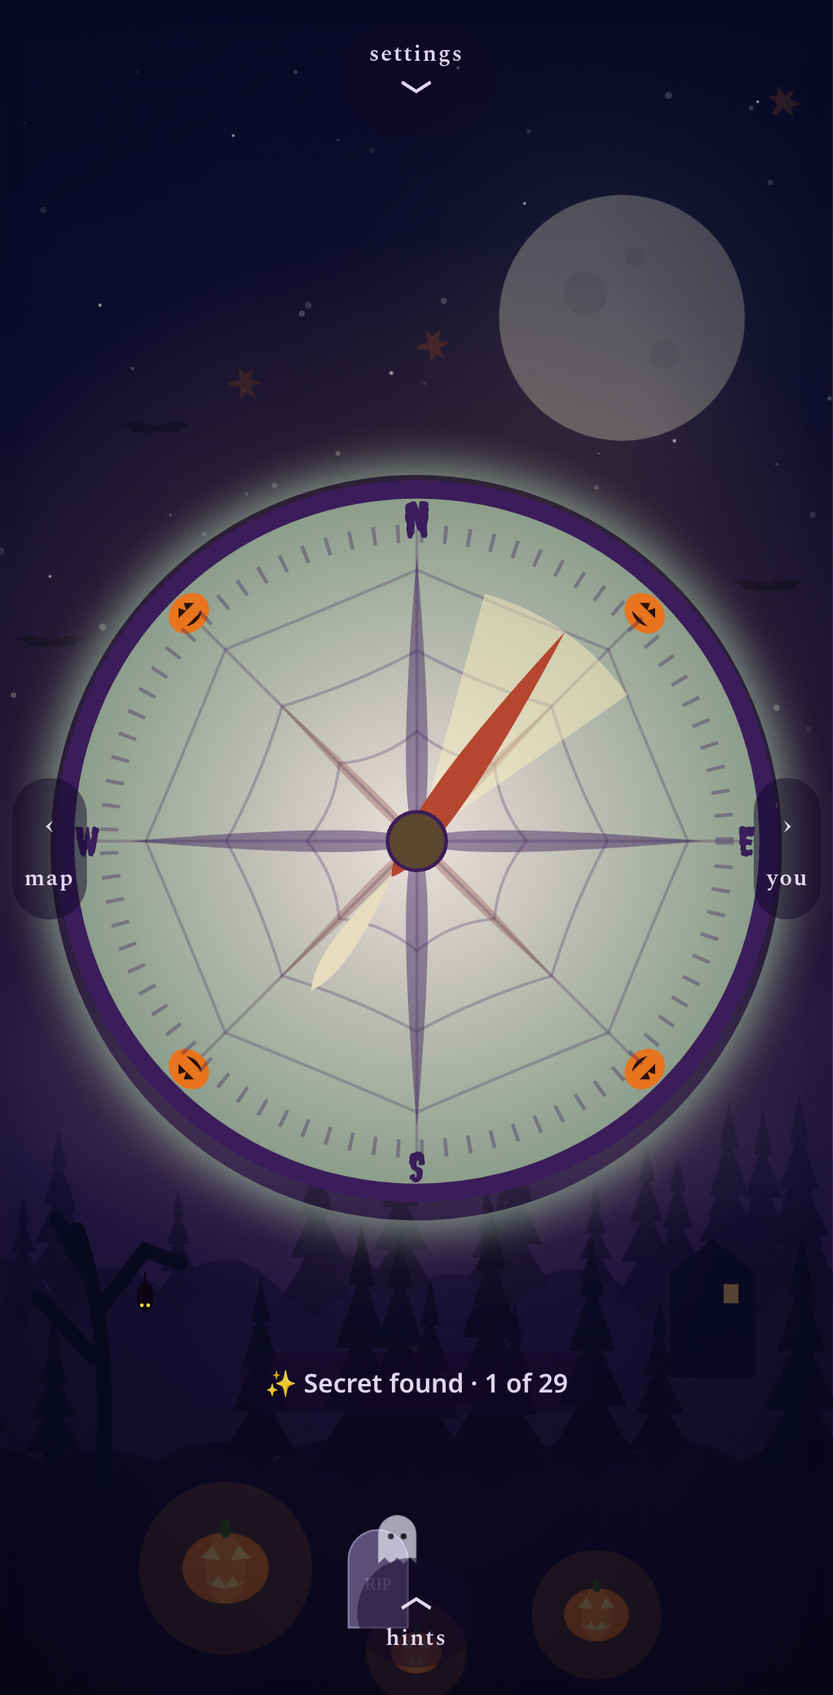
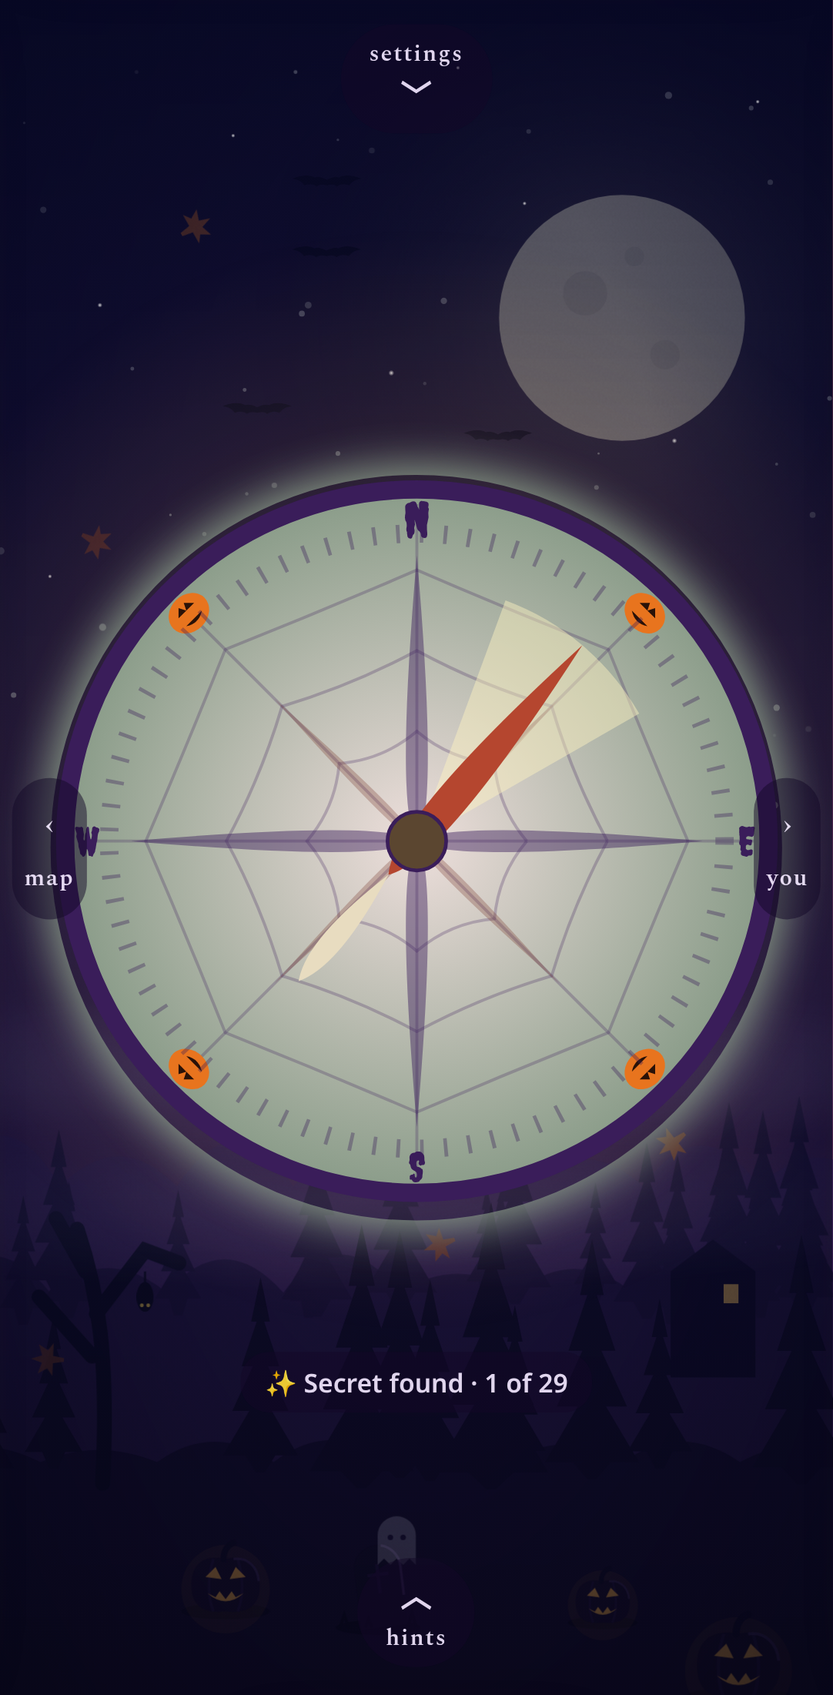
Blend tap scenery into scene: redraw pumpkins/tombstone as silhouettes, mount props in scene svg for tint/fog/vignette, retone snowman/oak/scarecrow/lighthouse

diff --git a/index.html b/index.html
@@ -1,5 +1,5 @@
-<!DOCTYPE html><html lang="en"><head><meta charset="utf-8"><meta http-equiv="Cache-Control" content="no-cache, no-store, must-revalidate"><meta http-equiv="Pragma" content="no-cache"><meta http-equiv="Expires" content="0"><meta name="ttu-build" content="202610231856"><meta name="viewport" content="width=device-width,initial-scale=1,viewport-fit=cover">
-<title>Trail Trade-Up · Solo Hunt</title><meta name="theme-color" content="#1f4d3a"><link rel="manifest" href="manifest.json?v=202610231856"><link rel="icon" href="icon-192.png?v=202610231856"><link rel="apple-touch-icon" href="icon-192.png?v=202610231856"><meta name="mobile-web-app-capable" content="yes"><meta name="apple-mobile-web-app-capable" content="yes"><meta name="apple-mobile-web-app-status-bar-style" content="black-translucent"><meta name="apple-mobile-web-app-title" content="Trail Hunt">
+<!DOCTYPE html><html lang="en"><head><meta charset="utf-8"><meta http-equiv="Cache-Control" content="no-cache, no-store, must-revalidate"><meta http-equiv="Pragma" content="no-cache"><meta http-equiv="Expires" content="0"><meta name="ttu-build" content="202610231902"><meta name="viewport" content="width=device-width,initial-scale=1,viewport-fit=cover">
+<title>Trail Trade-Up · Solo Hunt</title><meta name="theme-color" content="#1f4d3a"><link rel="manifest" href="manifest.json?v=202610231902"><link rel="icon" href="icon-192.png?v=202610231902"><link rel="apple-touch-icon" href="icon-192.png?v=202610231902"><meta name="mobile-web-app-capable" content="yes"><meta name="apple-mobile-web-app-capable" content="yes"><meta name="apple-mobile-web-app-status-bar-style" content="black-translucent"><meta name="apple-mobile-web-app-title" content="Trail Hunt">
 <link rel="stylesheet" href="https://unpkg.com/leaflet@1.9.4/dist/leaflet.css"><script src="https://unpkg.com/leaflet@1.9.4/dist/leaflet.js"></script>
 <link rel="preconnect" href="https://fonts.googleapis.com"><link rel="preconnect" href="https://fonts.gstatic.com" crossorigin><link rel="stylesheet" href="https://fonts.googleapis.com/css2?family=Amatic+SC:wght@700&family=Cormorant+Garamond:ital,wght@0,500;0,600;1,500&family=Creepster&family=Fraunces:ital,opsz,wght@0,9..144,400;0,9..144,600;1,9..144,400&family=IM+Fell+English:ital@0;1&family=IM+Fell+English+SC&family=Nunito:wght@400;600;700&family=Pacifico&family=Spectral:ital,wght@0,400;0,600;1,400&display=swap">
 <style>
@@ -628,8 +628,8 @@ function pines(L){const o=L.p;let s='',caps='';for(let i=0;i<o.n;i++){const x=-1
  return '<path d="'+s+'" fill="'+(o.ink?'#e9d6a6':o.c)+'"'+(o.ink?' stroke="#3b2414" stroke-width="1.2"':'')+'/>'+(caps?'<path d="'+caps+'" fill="#f4f8ff" opacity=".9"/>':'')}
 function trees(L){let s='';for(let i=0;i<L.t.n;i++){const x=rnd()*400,b=L.y-4+rnd()*10,r=12+rnd()*14;s+='<rect x="'+(x-1.5)+'" y="'+(b-r)+'" width="3" height="'+(r+8)+'" fill="#4a2a18" opacity=".7"/>';for(let k=0;k<3;k++)s+='<circle cx="'+(x+(k-1)*r*.55).toFixed(1)+'" cy="'+(b-r-(k===1?r*.5:0)).toFixed(1)+'" r="'+(r*.75).toFixed(1)+'" fill="'+L.t.c[(i+k)%L.t.c.length]+'"/>'}return s}
 function flowers(L){let s='';const C=['#f7a3c2','#fff27a','#ffffff','#c9a3f7','#ff9b7a'];for(let i=0;i<34;i++){const x=rnd()*400,y=L.y+8+rnd()*70,c=C[i%5];s+='<circle cx="'+x.toFixed(1)+'" cy="'+y.toFixed(1)+'" r="'+(2+rnd()*2.5).toFixed(1)+'" fill="'+c+'"/>'}return s}
-const pumpkin=(x,y,s)=>'<g transform="translate('+x+' '+y+') scale('+s+')"><circle r="34" fill="rgba(255,150,50,.25)" class="flick"/><ellipse rx="17" ry="14" fill="#e8741e"/><ellipse rx="8" ry="14" fill="#f08a2c"/><rect x="-2" y="-19" width="4" height="7" rx="2" fill="#3d5a1e"/><path d="M-10 -4 L-5 -9 L-2 -3Z M10 -4 L5 -9 L2 -3Z M-9 4 Q0 12 9 4 L5 6 L3 3 L0 7 L-3 3 L-5 6Z" fill="#ffd36b" class="flick"/></g>';
-function extras(k){if(k==='haunt')return '<path d="M52 700 C55 640 50 610 40 580 M47 640 L22 612 M49 620 L72 590 L88 596 M44 600 L30 575" stroke="#0c0618" stroke-width="7" fill="none" stroke-linecap="round"/>'+'<path d="M320 650 L320 600 L340 585 L360 600 L360 650Z M336 650 L336 630 L344 630 L344 650Z" fill="#100620"/><rect x="345" y="606" width="7" height="9" fill="#ffc35a" class="flick"/>'+pumpkin(110,740,1.2)+pumpkin(285,762,.9)+pumpkin(200,780,.7);
+const pumpkin=(x,y,s)=>'<g transform="translate('+x+' '+y+') scale('+s+')"><ellipse cy="13" rx="22" ry="4" fill="#07030e" opacity=".55"/><circle cy="2" r="22" fill="rgba(255,160,70,.10)" class="flick"/><path d="M-17 0 C-17 -12 -9 -15 0 -13 C9 -15 17 -12 17 0 C17 12 9 14 0 13 C-9 14 -17 12 -17 0Z" fill="#1a0b26"/><path d="M-6 -13 C-9 -4 -9 6 -6 13 M6 -13 C9 -4 9 6 6 13" stroke="#24123a" stroke-width="1.4" fill="none"/><path d="M4 -13 C11 -14 16 -9 16.5 -2" stroke="#5a3a7a" stroke-width="1.2" fill="none" opacity=".55"/><path d="M-1 -13 C-1 -17 1 -20 4 -21" stroke="#120820" stroke-width="3" fill="none" stroke-linecap="round"/><path d="M-10 -4 L-5 -9 L-2 -3Z M10 -4 L5 -9 L2 -3Z M-9 4 Q0 12 9 4 L5 6 L3 3 L0 7 L-3 3 L-5 6Z" fill="#ffb347" opacity=".85" class="flick"/></g>';
+function extras(k){if(k==='haunt')return '<path d="M52 700 C55 640 50 610 40 580 M47 640 L22 612 M49 620 L72 590 L88 596 M44 600 L30 575" stroke="#0c0618" stroke-width="7" fill="none" stroke-linecap="round"/>'+'<path d="M320 650 L320 600 L340 585 L360 600 L360 650Z M336 650 L336 630 L344 630 L344 650Z" fill="#100620"/><rect x="345" y="606" width="7" height="9" fill="#ffc35a" class="flick"/>'+pumpkin(110,748,.95)+pumpkin(288,756,.75)+pumpkin(352,786,1.15);
  if(k==='golden')return '<g opacity=".5"><path d="M0 330 Q120 300 260 330 T420 320" stroke="#fff3d0" stroke-width="10" fill="none" opacity=".35"/></g>';
  if(k==='cabin')return '<g transform="translate(250 640)"><rect x="0" y="0" width="80" height="44" fill="#3a2a22"/><path d="M-10 2 L40 -32 L90 2Z" fill="#f4f8fd"/><path d="M-6 2 L40 -26 L86 2Z" fill="#2a1c16"/><rect x="58" y="-36" width="10" height="22" fill="#2a1c16"/><circle cx="63" cy="-44" r="8" fill="#cfd8e6" class="smoke"/><circle cx="63" cy="-44" r="8" fill="#cfd8e6" class="smoke" style="animation-delay:2s"/><circle cx="63" cy="-44" r="8" fill="#cfd8e6" class="smoke" style="animation-delay:4s"/><rect x="12" y="12" width="18" height="16" fill="#ffcf73" class="flick"/><rect x="48" y="16" width="14" height="28" fill="#ffb34a" class="flick"/><circle cx="21" cy="20" r="34" fill="rgba(255,200,110,.18)" class="flick"/></g><path d="M240 720 Q300 700 360 730" stroke="#e2c08a" stroke-width="2" fill="none" opacity=".4"/>';
  if(k==='story')return '<g transform="translate(70 160)" stroke="#3b2414" fill="none" opacity=".75"><circle r="42" stroke-width="1.4"/><circle r="36" stroke-dasharray="2 4"/><path d="M0 -54 L8 0 L0 54 L-8 0Z M-54 0 L0 -8 L54 0 L0 8Z" fill="#c4593a" fill-opacity=".35"/><text y="-58" text-anchor="middle" font-size="14" fill="#3b2414" stroke="none" font-family="IM Fell English SC,serif">N</text></g><path d="M330 120 q12 -16 24 0 q12 -16 24 0" stroke="#3b2414" fill="none" stroke-width="1.5" opacity=".6"/><path d="M290 160 q8 -10 16 0 q8 -10 16 0" stroke="#3b2414" fill="none" stroke-width="1.2" opacity=".5"/><path d="M40 760 C120 720 160 770 230 735 S330 700 360 690" stroke="#9b2c1a" stroke-width="2.4" stroke-dasharray="6 7" fill="none"/><path d="M352 680 l16 16 m0 -16 l-16 16" stroke="#9b2c1a" stroke-width="4" stroke-linecap="round"/><path d="M250 560 l0 -40 l8 0 l0 -12 l6 0 l0 12 l8 0 l0 -20 l10 -10 l10 10 l0 60Z" fill="#e9d6a6" stroke="#3b2414" stroke-width="1.3"/><text x="200" y="470" text-anchor="middle" font-family="IM Fell English,serif" font-style="italic" font-size="15" fill="#3b2414" opacity=".55">Terra Incognita</text>';
@@ -1150,7 +1150,7 @@ window.TTU_UI={reveal,hide:()=>b.classList.add('uiHide')};
 (function(){
 const K='ttu_profile_crit',RM=matchMedia('(prefers-reduced-motion: reduce)'),W=()=>innerWidth,H=()=>innerHeight,R=(a,b)=>a+Math.random()*(b-a);
 const on=()=>{try{return localStorage.getItem(K)!=='off'&&localStorage.getItem('ttu_profile_sky')!=='off'}catch(e){return true}};
-let layer;function L(){if(!layer){layer=document.createElement('div');layer.id='crit';layer.setAttribute('aria-hidden','true');}const sk=document.getElementById('tSky')||document.getElementById('tScene');if(sk&&layer.previousSibling!==sk)sk.after(layer);else if(!layer.parentNode)document.body.prepend(layer);return layer}
+let layer;function L(){if(!layer){layer=document.createElement('div');layer.id='crit';layer.setAttribute('aria-hidden','true');}const sk=document.getElementById('tScene')||document.getElementById('tSky');if(sk&&layer.previousSibling!==sk)sk.after(layer);else if(!layer.parentNode)document.body.prepend(layer);return layer}
 function put(svg,x,y,w){const d=document.createElement('div');d.className='cr';d.style.left=x+'px';d.style.top=y+'px';d.style.width=w+'px';d.innerHTML=svg;L().appendChild(d);return d}
 function anim(el,kf,o){const a=el.animate(kf,Object.assign({fill:'forwards',easing:'ease-in-out'},o));a.onfinish=()=>el.remove();return a}
 const side=()=>Math.random()<.5;
@@ -1225,7 +1225,7 @@ window.TTU_CRIT={play,list:Object.keys(C)};
 #tapL{position:fixed;inset:0;z-index:0;pointer-events:none;overflow:hidden}
 #tapL svg{position:absolute;inset:0;width:100%;height:100%}
 #tapL g,#tapL path,#tapL circle,#tapL rect,#tapL ellipse{transform-box:fill-box}
-body[data-tod=night]:not([data-th=haunted]) #tapL .pr{filter:brightness(.8)}
+
 #secT{position:fixed;left:50%;bottom:calc(140px + env(safe-area-inset-bottom));transform:translateX(-50%);z-index:60;pointer-events:none;font:600 .8rem system-ui;padding:6px 12px;border-radius:14px;background:var(--chipbg,rgba(0,0,0,.5));color:var(--chipfg,#fff);opacity:0;transition:opacity .4s}
 #secT.on{opacity:.92}
 </style>
@@ -1236,19 +1236,19 @@ const NS='http://www.w3.org/2000/svg',RM=matchMedia('(prefers-reduced-motion: re
 const on=()=>{try{return localStorage.getItem('ttu_profile_crit')!=='off'}catch(e){return true}};
 const tod=()=>b.dataset.tod||'day',wx=()=>b.dataset.wx||'clear',night=()=>/night|dusk/.test(tod());
 let root,svg,props,fxg,cur='',cool={};
-function mk(){if(!root){root=document.createElement('div');root.id='tapL';root.setAttribute('aria-hidden','true');root.innerHTML='<svg viewBox="0 0 400 800" preserveAspectRatio="xMidYMax slice"><g class="pr"></g><g class="fx"></g></svg>';svg=root.firstChild;props=svg.firstChild;fxg=svg.lastChild}
- const a=document.getElementById('crit')||document.getElementById('tSky')||document.getElementById('tScene');if(a&&root.previousSibling!==a)a.after(root);else if(!root.parentNode)b.prepend(root)}
+function mk(){const land=document.querySelector('#tScene svg.land');if(!land)return false;if(!props){props=document.createElementNS(NS,'g');props.setAttribute('class','pr');fxg=document.createElementNS(NS,'g');fxg.setAttribute('class','fx')}
+ if(props.parentNode!==land){land.appendChild(props);land.appendChild(fxg)}svg=land;return true}
 function add(h,par){const g=document.createElementNS(NS,'g');g.innerHTML=h;(par||fxg).appendChild(g);return g}
 function A(el,kf,o){o=Object.assign({duration:1000,fill:'forwards',easing:'ease-in-out'},o);if(RM.matches){const last=kf[Math.floor(kf.length/2)];kf=[last,last];o.duration=Math.max(1600,o.duration*.6);o.delay=0;o.easing='linear'}return el.animate(kf,o)}
 const done=(a,g)=>a.finished.then(()=>g.remove()).catch(()=>g.remove());
 const rare=()=>Math.random()<.15;
 // ---- static props per theme (new little scenery bits) ----
 const PROP={
-winter:'<g id="p_snowman" transform="translate(52 712)"><circle cy="34" r="20" fill="#f4f8fd"/><circle cy="4" r="14" fill="#f4f8fd"/><circle cx="-5" cy="1" r="1.6" fill="#222"/><circle cx="5" cy="1" r="1.6" fill="#222"/><path d="M0 5 l9 2 l-9 1Z" fill="#e8741e"/><path d="M-12 10 h24" stroke="#c0392b" stroke-width="4"/><g id="p_hat"><rect x="-10" y="-14" width="20" height="4" fill="#1a1a1a"/><rect x="-6" y="-28" width="12" height="15" fill="#1a1a1a"/></g></g><g id="p_pine" transform="translate(376 760)"><path d="M0 -70 L22 -30 L10 -30 L28 0 L-28 0 L-10 -30 L-22 -30Z" fill="#1c3352"/><path id="p_pcap" d="M0 -70 L12 -48 L0 -52 L-12 -48Z M-20 -31 L20 -31 L14 -26 L-14 -26Z" fill="#f4f8ff"/><rect x="-3" y="0" width="6" height="10" fill="#3a2a22"/></g>',
-haunted:'<g id="p_tomb" transform="translate(182 742)"><path d="M-14 26 V-6 A14 14 0 0 1 14 -6 V26Z" fill="#5a5078" stroke="#8c80a8" stroke-width=".8"/><text y="8" text-anchor="middle" font-size="8" fill="#8c80a8" font-family="serif">RIP</text></g><g id="p_bat" transform="translate(72 600)"><path d="M0 0 v6" stroke="#0c0618"/><ellipse cy="12" rx="4" ry="7" fill="#0b0514"/><circle cx="-1.5" cy="16" r=".9" fill="#ffd34d"/><circle cx="1.5" cy="16" r=".9" fill="#ffd34d"/></g>',
-golden:'<g id="p_oak" transform="translate(345 770)"><rect x="-5" y="-50" width="10" height="55" fill="#5a3418"/><circle cx="0" cy="-66" r="30" fill="#c4401e"/><circle cx="-18" cy="-52" r="18" fill="#e07a2a"/><circle cx="18" cy="-54" r="18" fill="#a8321a"/></g><g id="p_crow" transform="translate(64 728)"><path d="M0 -20 V48" stroke="#5a3418" stroke-width="4"/><path d="M-22 -4 H22" stroke="#5a3418" stroke-width="3"/><path d="M-8 -6 L8 -6 L12 26 L-12 26Z" fill="#9c4a2a"/><g id="p_arm"><path d="M8 -4 L24 -4 L26 2" stroke="#d9a84a" stroke-width="4" fill="none"/></g><circle cy="-16" r="9" fill="#e8c27a"/><path d="M-12 -22 L12 -22 L6 -32 L-6 -32Z" fill="#6a2e18"/><circle cx="-3" cy="-16" r="1.2" fill="#222"/><circle cx="3" cy="-16" r="1.2" fill="#222"/></g>',
+winter:'<g id="p_snowman" transform="translate(52 716)"><ellipse cy="52" rx="24" ry="4" fill="#7896bd" opacity=".45"/><circle cy="34" r="19" fill="#dfe8f4"/><path d="M-12 20 A19 19 0 0 0 -6 52 A20 20 0 0 1 -12 20Z" fill="#b9cbe6" opacity=".8"/><circle cy="5" r="13" fill="#e6edf7"/><path d="M-9 -4 A13 13 0 0 0 -6 16 A14 14 0 0 1 -9 -4Z" fill="#b9cbe6" opacity=".8"/><circle cx="-4" cy="2" r="1.4" fill="#1c2433"/><circle cx="4" cy="2" r="1.4" fill="#1c2433"/><path d="M0 6 l8 2 l-8 1Z" fill="#d9822b"/><path d="M-11 15 h22" stroke="#8a3a3a" stroke-width="3.5"/><g id="p_hat"><rect x="-10" y="-10" width="20" height="3.5" fill="#1c2433"/><rect x="-6" y="-23" width="12" height="14" fill="#1c2433"/></g></g><g id="p_pine" transform="translate(376 760)"><path d="M0 -70 L22 -30 L10 -30 L28 0 L-28 0 L-10 -30 L-22 -30Z" fill="#1c3352"/><path id="p_pcap" d="M0 -70 L12 -48 L0 -52 L-12 -48Z M-20 -31 L20 -31 L14 -26 L-14 -26Z" fill="#f4f8ff"/><rect x="-3" y="0" width="6" height="10" fill="#3a2a22"/></g>',
+haunted:'<g id="p_tomb" transform="translate(182 744)"><ellipse cy="24" rx="20" ry="3.5" fill="#07030e" opacity=".55"/><g transform="rotate(-7)"><path d="M-11 24 V-4 A11 11 0 0 1 11 -4 V24Z" fill="#140a22"/><path d="M3 -14.5 A11 11 0 0 1 11 -4 V10" stroke="#6a4a8a" stroke-width="1.2" fill="none" opacity=".8"/><path d="M0 -6 V8 M-5 -1 H5" stroke="#24123a" stroke-width="1.6"/></g><path d="M-18 24 l2 -6 l2 6 M14 24 l2 -7 l2 7 M-6 24 l1.5 -4 l1.5 4" stroke="#0c0618" stroke-width="1.4" fill="none"/></g><g id="p_bat" transform="translate(72 600)"><path d="M0 0 v6" stroke="#0c0618"/><ellipse cy="12" rx="4" ry="7" fill="#0b0514"/><circle cx="-1.5" cy="16" r=".9" fill="#ffd34d"/><circle cx="1.5" cy="16" r=".9" fill="#ffd34d"/></g>',
+golden:'<g id="p_oak" transform="translate(345 770)"><rect x="-5" y="-50" width="10" height="55" fill="#3a180a"/><circle cx="0" cy="-66" r="30" fill="#8a3018"/><circle cx="-18" cy="-52" r="18" fill="#a8461e"/><circle cx="18" cy="-54" r="18" fill="#6a2412"/></g><g id="p_crow" transform="translate(64 728)"><path d="M0 -20 V48" stroke="#5a3418" stroke-width="4"/><path d="M-22 -4 H22" stroke="#5a3418" stroke-width="3"/><path d="M-8 -6 L8 -6 L12 26 L-12 26Z" fill="#5a2612"/><g id="p_arm"><path d="M8 -4 L24 -4 L26 2" stroke="#a8743c" stroke-width="4" fill="none"/></g><circle cy="-16" r="9" fill="#a8743c"/><path d="M-12 -22 L12 -22 L6 -32 L-6 -32Z" fill="#3a180a"/><circle cx="-3" cy="-16" r="1.2" fill="#222"/><circle cx="3" cy="-16" r="1.2" fill="#222"/></g>',
 spring:'<g id="p_bud" transform="translate(80 770)"><path d="M0 0 V-34" stroke="#3f6e3a" stroke-width="3"/><path d="M0 -14 q-12 -2 -14 -12 q10 0 14 10" fill="#4f8a45"/><ellipse id="p_budh" cy="-40" rx="6" ry="9" fill="#c94f80"/></g><g id="p_bhouse" transform="translate(338 760)"><rect x="-2" y="-40" width="4" height="50" fill="#6a4a2a"/><path d="M-18 -60 L0 -76 L18 -60Z" fill="#c94f80"/><rect x="-14" y="-60" width="28" height="22" fill="#f3d9a4"/><circle cy="-50" r="5" fill="#3a2a1a"/></g><g id="p_snail" transform="translate(210 784)"><path d="M-14 6 H12 q6 0 6 -6" stroke="#b88a5a" stroke-width="5" fill="none" stroke-linecap="round"/><g id="p_shell"><circle cx="-2" cy="-4" r="9" fill="#c98a4a"/><path d="M-2 -4 m-5 0 a5 5 0 1 0 5 -5" stroke="#7a4a28" fill="none"/></g><g id="p_horn"><path d="M14 2 l4 -10 M16 2 l7 -8" stroke="#b88a5a" stroke-width="1.6"/></g></g>',
-summer:'<g id="p_boat" transform="translate(330 680)"><path d="M-22 0 H22 L14 9 H-14Z" fill="#7a3a1a"/><path d="M0 0 V-40 L22 -4Z" fill="#fff"/><path d="M-2 -36 L-18 -4 H-2Z" fill="#e0532a"/></g><g id="p_light" transform="translate(372 772)"><path d="M-9 0 L-6 -60 H6 L9 0Z" fill="#fff"/><path d="M-8 -16 H8 M-7 -36 H7" stroke="#e0532a" stroke-width="7"/><rect x="-7" y="-72" width="14" height="12" fill="#ffd34d"/><path d="M-9 -72 L0 -82 L9 -72Z" fill="#0d2c42"/></g><g id="p_ripple" transform="translate(70 700)"><ellipse rx="14" ry="3" fill="none" stroke="#e9f7ff" stroke-width="1.5" opacity=".6"/></g>',
+summer:'<g id="p_boat" transform="translate(330 680)"><path d="M-22 0 H22 L14 9 H-14Z" fill="#7a3a1a"/><path d="M0 0 V-40 L22 -4Z" fill="#fff"/><path d="M-2 -36 L-18 -4 H-2Z" fill="#e0532a"/></g><g id="p_light" transform="translate(372 772)"><path d="M-9 0 L-6 -60 H6 L9 0Z" fill="#efe6d6"/><path d="M1 0 L3 -60 H6 L9 0Z" fill="#d6c8b0" opacity=".7"/><path d="M-8 -16 H8 M-7 -36 H7" stroke="#e0532a" stroke-width="7"/><rect x="-7" y="-72" width="14" height="12" fill="#ffd34d"/><path d="M-9 -72 L0 -82 L9 -72Z" fill="#0d2c42"/></g><g id="p_ripple" transform="translate(70 700)"><ellipse rx="14" ry="3" fill="none" stroke="#e9f7ff" stroke-width="1.5" opacity=".6"/></g>',
 story:'<g id="p_ness" transform="translate(320 748)" fill="none" stroke="#3b2414" stroke-width="1.6" stroke-linecap="round"><path d="M-30 10 q8 -14 16 0 M-8 10 q8 -16 16 0"/><g id="p_nh"><path d="M14 10 q4 -30 16 -30 q8 0 8 6"/><circle cx="32" cy="-20" r="1" fill="#3b2414"/></g><path d="M-40 12 q10 -4 20 0 t20 0 t20 0 t20 0" opacity=".5"/></g><g id="p_drag" transform="translate(62 736)" fill="#e9d6a6" stroke="#3b2414" stroke-width="1.4"><path d="M-24 10 q10 -24 30 -16 l10 -8 l2 6 l-6 6 q4 10 -6 16 q-14 6 -30 -4Z"/><path d="M-4 -8 l-6 -14 l12 8" /><circle cx="10" cy="-12" r="1" fill="#3b2414"/><text x="-2" y="34" font-size="9" text-anchor="middle" stroke="none" fill="#3b2414" font-style="italic" font-family="IM Fell English,serif">here be dragons</text></g><circle id="p_rose" cx="70" cy="160" r="48" fill="transparent"/>'};
 // ---- actions; each: hit box [x,y,r] in viewBox coords + play() ----
 function orb(){const th=b.dataset.th;return {haunted:[300,150,58,1],winter:[90,160,34,1],golden:[110,250,46],spring:[300,190,40],summer:[300,130,44]}[th]}
@@ -1265,9 +1265,9 @@ chimney:{th:['winter'],hit:()=>[313,600,16],play(){const g=add('<g></g>');for(le
 snowman:{th:['winter'],hit:()=>[52,730,26],play(){const h=document.getElementById('p_hat');if(!h)return;const rr=rare();A(h,rr?[{transform:'translateY(0)'},{transform:'translateY(-46px) rotate(360deg)',offset:.4},{transform:'translateY(-46px) rotate(720deg)',offset:.6},{transform:'translateY(0) rotate(720deg)'}]:[{transform:'translateY(0)'},{transform:'translateY(-30px) rotate(-25deg)',offset:.35},{transform:'translateY(-30px) rotate(10deg)',offset:.55},{transform:'translateY(0) rotate(0)'}],{duration:1800,fill:'none',easing:'cubic-bezier(.3,1.3,.6,1)'})}},
 pine:{th:['winter'],hit:()=>[376,725,30],play(){const t=document.getElementById('p_pine'),c=document.getElementById('p_pcap');A(t,[{transform:'translate(376px,760px)'},{transform:'translate(373px,760px)'},{transform:'translate(379px,760px)'},{transform:'translate(374px,760px)'},{transform:'translate(376px,760px)'}].map(k=>({transform:k.transform.replace(/px/g,'px')})),{duration:600,fill:'none'});
  A(c,[{opacity:1},{opacity:0,offset:.15},{opacity:0,offset:.9},{opacity:1}],{duration:9000,fill:'none'});for(let i=0;i<7;i++){const g=add('<circle cx="'+(366+Math.random()*20)+'" cy="'+(695+Math.random()*30)+'" r="'+(1.5+Math.random()*2)+'" fill="#f4f8ff"/>');done(A(g.firstChild,[{transform:'translateY(0)',opacity:1},{transform:'translate('+(Math.random()*20-10)+'px,'+(50+Math.random()*20)+'px)',opacity:0}],{duration:1200+Math.random()*500,easing:'ease-in'}),g)}}},
-tomb:{th:['haunted'],hit:()=>[182,746,22],play(){const rr=rare(),g=add('<g transform="translate(182 738)"><g class="gh"><path d="M-9 8 V-6 A9 9 0 0 1 9 -6 V8 l-3 -3 l-3 3 l-3 -3 l-3 3 l-3 -3Z" fill="'+(rr?'#b8ffd6':'#f3eefc')+'" opacity=".9"/><circle cx="-3" cy="-5" r="1.4" fill="#222"/><circle cx="3" cy="-5" r="1.4" fill="#222"/>'+(rr?'<text y="-18" text-anchor="middle" font-size="8" fill="#f3eefc">boo?</text>':'')+'</g></g>'),gh=g.querySelector('.gh');
+tomb:{th:['haunted'],hit:()=>[182,746,22],play(){const rr=rare(),g=add('<g transform="translate(182 738)"><g class="gh"><path d="M-9 8 V-6 A9 9 0 0 1 9 -6 V8 l-3 -3 l-3 3 l-3 -3 l-3 3 l-3 -3Z" fill="'+(rr?'#c8f5dc':'#e6dcf7')+'" opacity=".55"/><circle cx="-3" cy="-5" r="1.3" fill="#24123a"/><circle cx="3" cy="-5" r="1.3" fill="#24123a"/>'+(rr?'<text y="-18" text-anchor="middle" font-size="8" fill="#f3eefc">boo?</text>':'')+'</g></g>'),gh=g.querySelector('.gh');
  done(A(gh,[{transform:'translate(0,10px)',opacity:0},{transform:'translate(12px,-14px)',opacity:1,offset:.3},{transform:'translate(14px,-16px) rotate(8deg)',offset:.5},{transform:'translate(12px,-14px) rotate(-6deg)',offset:.7},{transform:'translate(0,10px)',opacity:0}],{duration:3600}),g)}},
-pumpkin:{th:['haunted'],hit:()=>{return null},multi:[[110,740,22],[285,762,18]],play(i){const p=[[110,740,1.2],[285,762,.9]][i||0],rr=rare(),g=add('<g transform="translate('+p[0]+' '+p[1]+') scale('+p[2]+')"><path class="lid" d="M-11 -6 Q-6 -3 -1 -6" stroke="#e8741e" stroke-width="5" fill="none" opacity="0"/>'+(rr?'<text y="-24" text-anchor="middle" font-size="10" fill="#ffd36b">hehe</text>':'')+'</g>');
+pumpkin:{th:['haunted'],hit:()=>{return null},multi:[[110,748,20],[288,756,16]],play(i){const p=[[110,748,.95],[288,756,.75]][i||0],rr=rare(),g=add('<g transform="translate('+p[0]+' '+p[1]+') scale('+p[2]+')"><path class="lid" d="M-11 -6 Q-6 -3 -1 -6" stroke="#1a0b26" stroke-width="5" fill="none" opacity="0"/>'+(rr?'<text y="-24" text-anchor="middle" font-size="10" fill="#ffd36b">hehe</text>':'')+'</g>');
  done(A(g.querySelector('.lid'),[{opacity:0},{opacity:1,offset:.2},{opacity:1,offset:.5},{opacity:0,offset:.6},{opacity:0}],{duration:1800,fill:'forwards'}),g)}},
 bat:{th:['haunted'],hit:()=>[72,612,14],play(){const bt=document.getElementById('p_bat');A(bt,[{transform:'translate(72px,600px)'},{transform:'translate(72px,600px) rotate(180deg)',offset:.2},{transform:'translate(72px,600px) rotate(170deg)',offset:.4},{transform:'translate(72px,600px) rotate(190deg)',offset:.6},{transform:'translate(72px,600px) rotate(180deg)',offset:.8},{transform:'translate(72px,600px)'}],{duration:2600,fill:'none'});
  if(rare()){const g=add('<text x="80" y="590" font-size="9" fill="#cdb8e6">hi!</text>');done(A(g.firstChild,[{opacity:0},{opacity:1},{opacity:0}],{duration:2200}),g)}}},
@@ -1294,8 +1294,8 @@ dragon:{th:['story'],hit:()=>[62,730,28],play(){const rr=rare(),g=add('<g transf
 rose:{th:['story'],hit:()=>[70,160,48],play(){const r=document.querySelector('#tScene svg.land g[transform="translate(70 160)"]');if(!r)return;r.style.transformBox='view-box';r.style.transformOrigin='70px 160px';
  const a=r.animate(RM.matches?[{transform:'translate(70px,160px) rotate(90deg)'},{transform:'translate(70px,160px) rotate(90deg)'}]:[{transform:'translate(70px,160px) rotate(0)'},{transform:'translate(70px,160px) rotate('+(rare()?1080:720)+'deg)'}],{duration:2400,easing:'cubic-bezier(.2,.8,.3,1)'});a.finished.then(()=>{r.style.transform=''})}}};
 const LIST={winter:['moon','sun','curtains','chimney','snowman','pine'],haunted:['moon','sun','curtains','tomb','pumpkin','bat'],golden:['sun','moon','acorn','scarecrow'],spring:['sun','moon','bloom','birdhouse','snail'],summer:['sun','moon','fish','boat','lighthouse'],story:['rose','ness','dragon']};
-function build(){mk();const th=b.dataset.th||'';if(th===cur)return;cur=th;props.innerHTML=PROP[th]||'';fxg.innerHTML=''}
-new MutationObserver(build).observe(b,{attributes:true,attributeFilter:['data-th']});
+function build(){if(!mk())return;const th=b.dataset.th||'';if(th===cur&&props.childNodes.length)return;cur=th;props.innerHTML=PROP[th]||'';fxg.innerHTML=''}
+new MutationObserver(build).observe(b,{attributes:true,attributeFilter:['data-th']});setTimeout(()=>{const sc=document.getElementById('tScene');if(sc)new MutationObserver(()=>{cur='';build()}).observe(sc,{childList:true})},0);
 // secrets
 function found(n){let s;try{s=JSON.parse(localStorage.getItem(KS)||'[]')}catch(e){s=[]}const id=(b.dataset.th||'')+':'+n;if(s.includes(id))return;s.push(id);try{localStorage.setItem(KS,JSON.stringify(s))}catch(e){}
  let t=document.getElementById('secT');if(!t){t=document.createElement('div');t.id='secT';b.appendChild(t)}t.textContent='✨ Secret found · '+s.length+' of '+TOTAL;t.classList.add('on');clearTimeout(t._t);t._t=setTimeout(()=>t.classList.remove('on'),2200);lbl()}
